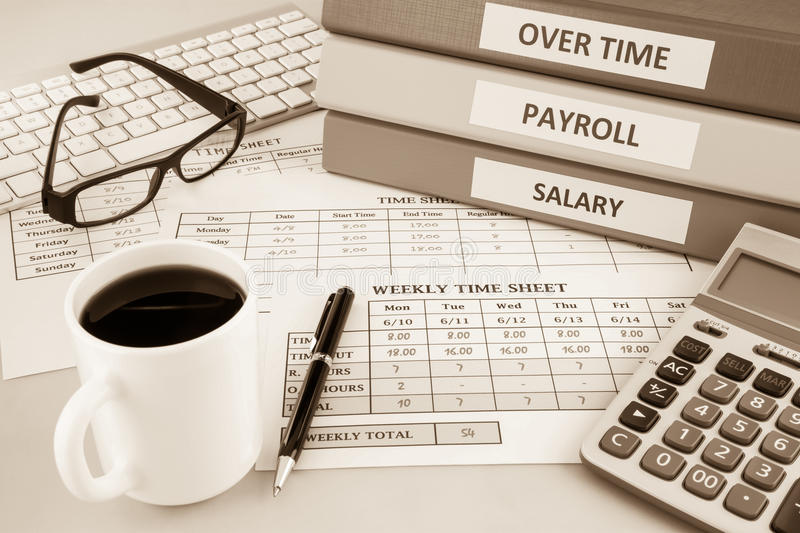
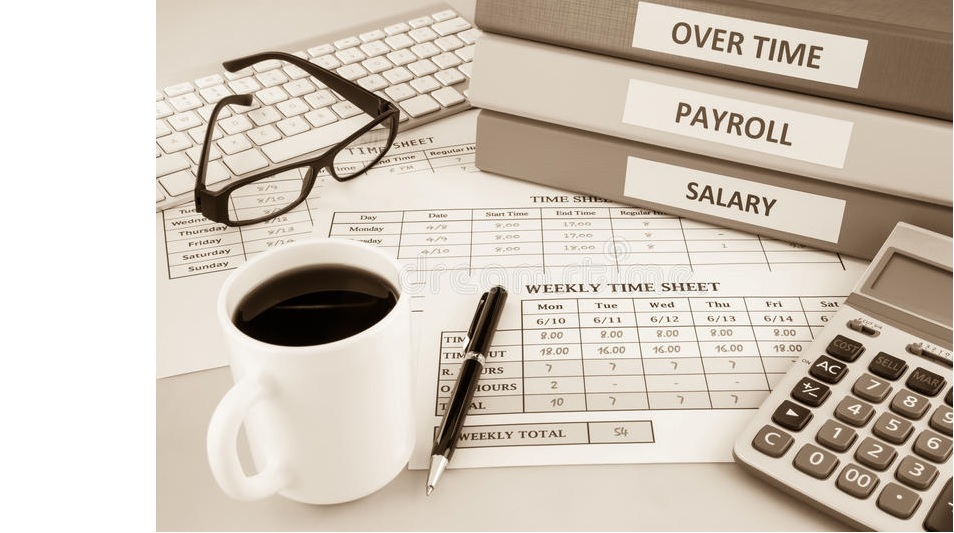
Background image added
Background image added

diff --git a/UIPay/pay-ui/src/Components/MenuComponents/MainMenuForm.js b/UIPay/pay-ui/src/Components/MenuComponents/MainMenuForm.js
@@ -18,6 +18,7 @@ import AttendanceGenerationForm from '../TransactionComponents/AttendanceGenerat
 import PrintPaySlipForm from '../ReportComponents/PrintPaySlipForm';
 import PrintSingleEmpAttendanceForm from '../ReportComponents/PrintSingleEmpAttendanceForm';
 import LogoutForm from '../LogoutComponents/LogoutForm';
+import background from "../MenuComponents/PayrollBackground.jpg"
 
 export default class MainMenuForm extends React.Component {
   
@@ -66,13 +67,8 @@ export default class MainMenuForm extends React.Component {
         }
       ];
       
-      const mainDivStyle = { 
-        background: '#CAE4DB',
-        backgroundImage: `url('PayrollBackground.jpg')`
-      }
-
       return(
-        <div style={mainDivStyle}>
+        <div style={{ backgroundImage: `url(${background})` }}>
           <Grid container direction="row" spacing="1">
           <Router>
             <Sidebar items={items} />

diff --git a/UIPay/pay-ui/src/Components/TransactionComponents/AttendanceGenerationForm.js b/UIPay/pay-ui/src/Components/TransactionComponents/AttendanceGenerationForm.js
@@ -15,6 +15,12 @@ class AttendanceGenerationForm extends Component {
 
   componentDidMount()
   {
+    this.PopulateMonths();
+    document.getElementById("year").focus();
+  }
+
+  PopulateMonths()
+  {
     let initialDataToDisplay = [];
 
     initialDataToDisplay.push(<MenuItem value={1}>January</MenuItem>);
@@ -105,7 +111,7 @@ class AttendanceGenerationForm extends Component {
               <Table>
                 <tr>
                   <td>
-                    <TextField id="year" label='Year' placeholder='Enter Year' variant='outlined' style={{width: '40%'}}></TextField>
+                    <TextField id="year" label='Year' placeholder='Year' variant='outlined' style={{width: '40%'}}></TextField>
                   </td>
                   <td>
                     <Select id="monthsCombo" value={this.state.value} onChange={this.monthsComboChange}

diff --git a/UIPay/pay-ui/src/Components/ReportComponents/PrintSingleEmpAttendanceForm.js b/UIPay/pay-ui/src/Components/ReportComponents/PrintSingleEmpAttendanceForm.js
@@ -25,6 +25,7 @@ class PrintSingleEmpAttendanceForm extends Component {
         this.populateMonths();
         var url='http://192.168.43.241:8086/api/employees';
         this.populateCombos(url)
+        document.getElementById("year").focus();
     }
 
     populateMonths()
@@ -194,7 +195,7 @@ class PrintSingleEmpAttendanceForm extends Component {
                 <Table>
                     <tr>
                     <td>
-                        <TextField id="year" label='Year' placeholder='Enter Year' variant='outlined' style ={{width: '30%'}}></TextField>
+                        <TextField id="year" label='Year' placeholder='Year' variant='outlined' style ={{width: '30%'}}></TextField>
                     </td>
                     <td>
                         <Select id="monthsCombo" value={this.state.value} onChange={this.monthsComboChange}

diff --git a/UIPay/pay-ui/src/Components/ReportComponents/PrintPaySlipForm.js b/UIPay/pay-ui/src/Components/ReportComponents/PrintPaySlipForm.js
@@ -24,6 +24,7 @@ class PrintPaySlipForm extends Component {
         this.populateMonths();
         var url='http://192.168.43.241:8086/api/employees';
         this.populateCombos(url)
+        document.getElementById("year").focus();
     }
 
     populateMonths()
@@ -238,7 +239,7 @@ class PrintPaySlipForm extends Component {
                 <Table>
                     <tr>
                     <td>
-                        <TextField id="year" label='Year' placeholder='Enter Year' variant='outlined' style ={{width: '20%'}}></TextField>
+                        <TextField id="year" label='Year' placeholder='Year' variant='outlined' style ={{width: '20%'}}></TextField>
                     </td>
                     <td>
                         <Select id="monthsCombo" value={this.state.monthId} onChange={this.monthsComboChange}

diff --git a/UIPay/pay-ui/src/Components/MenuComponents/Sidebar.js b/UIPay/pay-ui/src/Components/MenuComponents/Sidebar.js
@@ -52,7 +52,7 @@ function SidebarItem({ depthStep = 10, depth = 0, expanded, item, ...rest }) {
           className="sidebar-item-content"
         >
           {Icon && <Icon className="sidebar-item-icon" fontSize="small" />}
-          <div className="sidebar-item-text"><Link to={item.route} style={{ color: 'brown' }}>{label}</Link></div>
+          <div className="sidebar-item-text"><Link to={item.route} style={{ color: 'black' }}>{label}</Link></div>
         </div>
         {expandIcon}
       </ListItem>

diff --git a/UIPay/pay-ui/src/Components/TransactionComponents/PaySlipGenerationForm.js b/UIPay/pay-ui/src/Components/TransactionComponents/PaySlipGenerationForm.js
@@ -15,6 +15,12 @@ class PaySlipGenerationForm extends Component {
 
   componentDidMount()
   {
+    this.PopulateMonths();
+    document.getElementById("year").focus();
+  }
+
+  PopulateMonths()
+  {
     let initialDataToDisplay = [];
 
     initialDataToDisplay.push(<MenuItem value={1}>January</MenuItem>);
